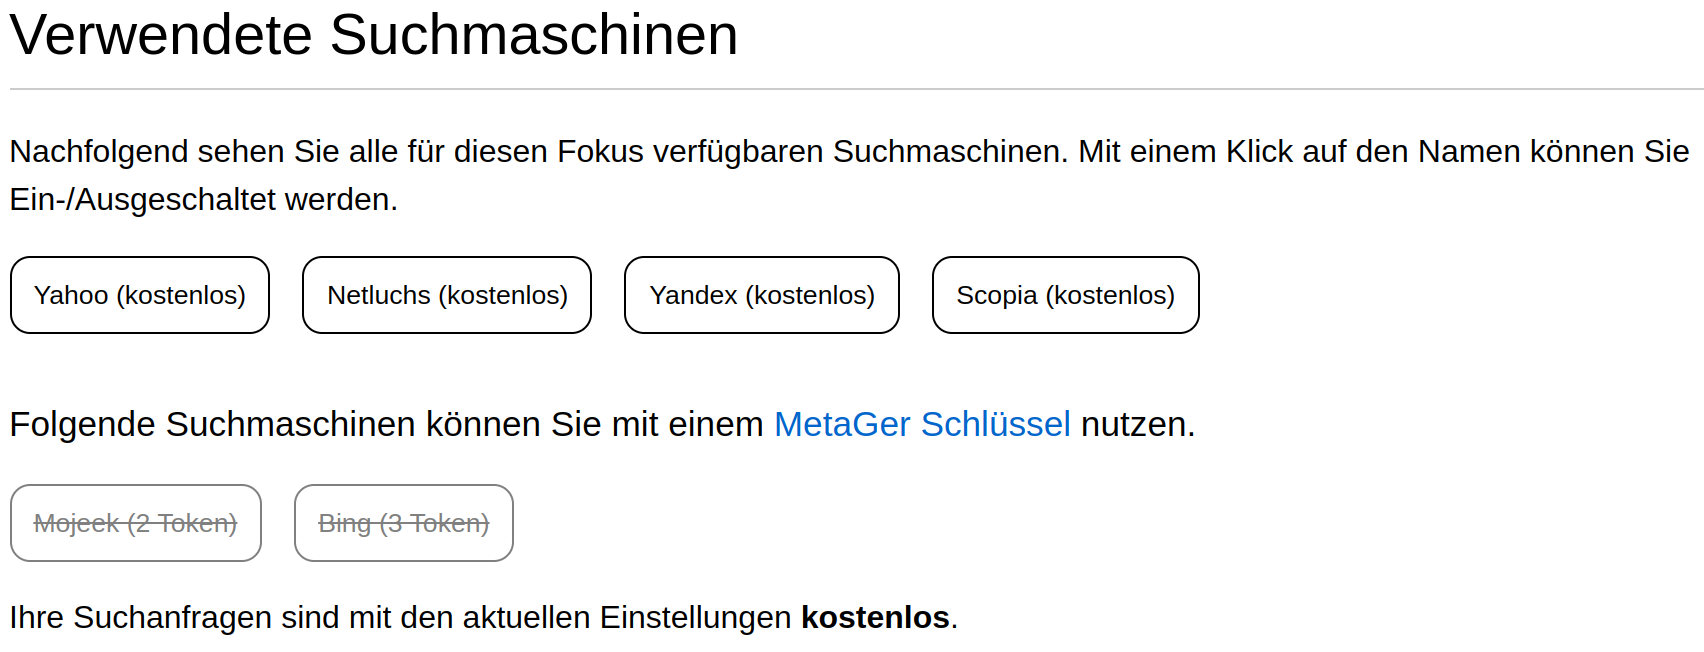
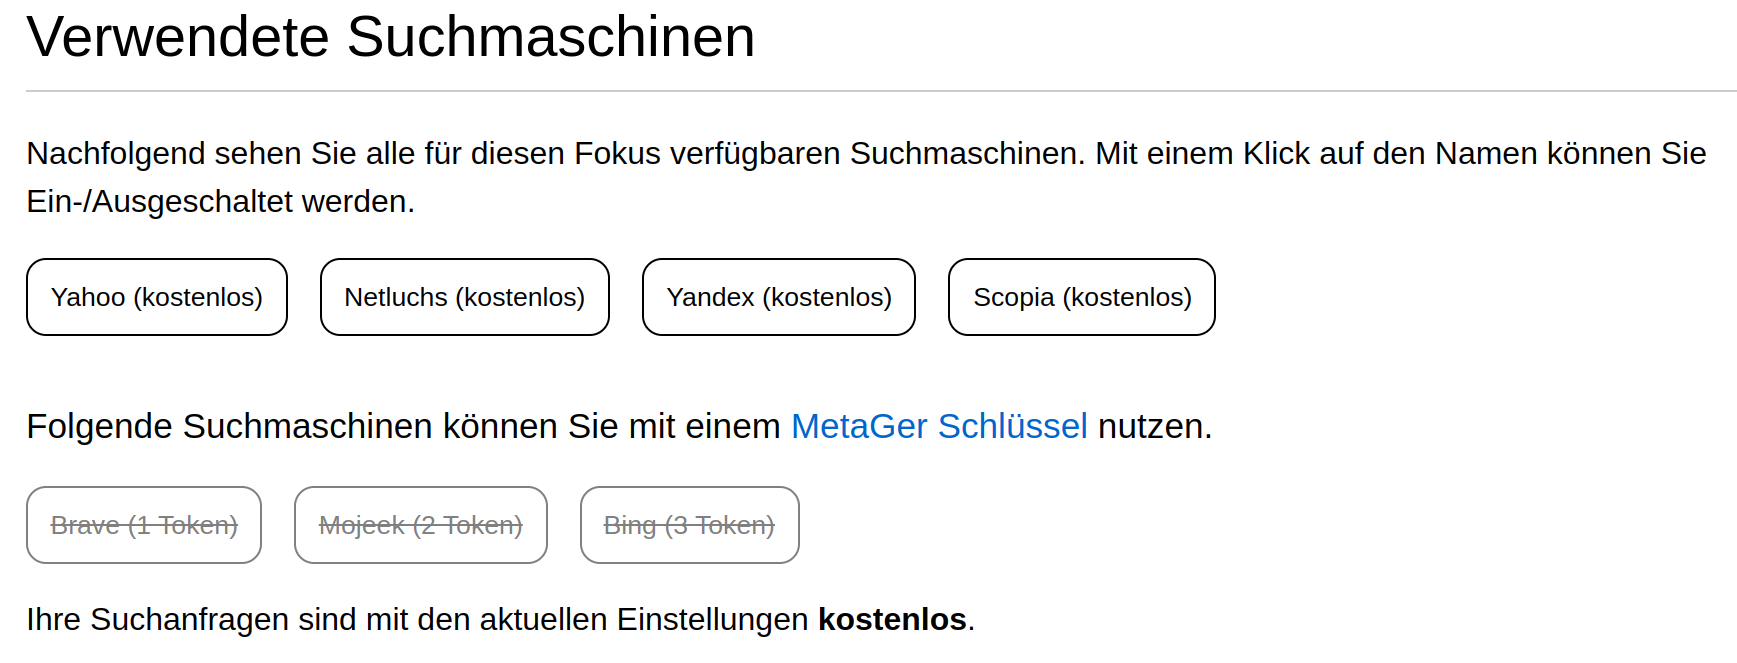
change text to  fit new setting page

diff --git a/metager/resources/views/help/easy-language/help-mainpages.blade.php b/metager/resources/views/help/easy-language/help-mainpages.blade.php
@@ -44,100 +44,103 @@
 			<p>{!! trans('help/easy-language/help-mainpages.searchfield.morefunctions') !!}</p>
 		</div>
         <h3 id="ergebnis">{!! trans('help/easy-language/help-mainpages.resultpage.title') !!}</h3>
-		    <div>
-				<p>{!! trans('help/easy-language/help-mainpages.resultpage.foci.1') !!}</p>
-				<img class="help-easy-language-mainpages-image lm-only" src="/img/help-search-focus-lm.png"/>
-				<img class="help-easy-language-mainpages-image dm-only" src="/img/help-search-focus-dm.png"/>
-				<p>{!! trans('help/easy-language/help-mainpages.resultpage.foci.2') !!}</p>
+		<div>
+			<p>{!! trans('help/easy-language/help-mainpages.resultpage.foci.1') !!}</p>
+			<img class="help-easy-language-mainpages-image lm-only" src="/img/help-search-focus-lm.png"/>
+			<img class="help-easy-language-mainpages-image dm-only" src="/img/help-search-focus-dm.png"/>
+			<p>{!! trans('help/easy-language/help-mainpages.resultpage.foci.2') !!}</p>
 
-				<p>{!! trans('help/easy-language/help-mainpages.resultpage.choice') !!}</p>
-				<img class="help-easy-language-mainpages-image lm-only" src="/img/help-settings-filter-lm.png"/>
-				<img class="help-easy-language-mainpages-image dm-only" src="/img/help-settings-filter-dm.png"/>
-				<h4>{!! trans('help/easy-language/help-mainpages.resultpage.filter.title') !!}</h4>
-				<p>{!! trans('help/easy-language/help-mainpages.resultpage.filter.1') !!}</p>
+			<p>{!! trans('help/easy-language/help-mainpages.resultpage.choice') !!}</p>
+			<img class="help-easy-language-mainpages-image lm-only" src="/img/help-settings-filter-lm.png"/>
+			<img class="help-easy-language-mainpages-image dm-only" src="/img/help-settings-filter-dm.png"/>
+			<h4>{!! trans('help/easy-language/help-mainpages.resultpage.filter.title') !!}</h4>
+			<p>{!! trans('help/easy-language/help-mainpages.resultpage.filter.1') !!}</p>
 
-				<h4>{!! trans('help/easy-language/help-mainpages.resultpage.settings.title') !!}</h4>
-				<p>{!! trans('help/easy-language/help-mainpages.resultpage.settings.1') !!}</p>
+			<h4>{!! trans('help/easy-language/help-mainpages.resultpage.settings.title') !!}</h4>
+			<p>{!! trans('help/easy-language/help-mainpages.resultpage.settings.1') !!}</p>
 
-            </div>
+		</div>
 		<h3>{!! trans('help/easy-language/help-mainpages.result.title') !!}</h3>
-			<div>
-				<p>{!! trans('help/easy-language/help-mainpages.result.info.1') !!}</p>
-				<div class="image-container">
-					<img class="lm-only" src="/img/help-php-resultpic-01.png" alt="Bildschirmfoto eines Suchergebnisses"/>
-					<img class="dm-only" src="/img/help-php-resultpic-01-dm.png" alt="Bildschirmfoto eines Suchergebnisses"/>
-				</div>
-				<h4>{!! trans('help/easy-language/help-mainpages.result.info.open.title') !!}</h4>
-				<p>{!! trans('help/easy-language/help-mainpages.result.info.open.0') !!}</p>
-				<ul>
-					<li>{!! trans('help/easy-language/help-mainpages.result.info.open.1') !!}</li>
-					<li>{!! trans('help/easy-language/help-mainpages.result.info.open.2') !!}</li>
-					<li>{!! trans('help/easy-language/help-mainpages.result.info.open.3') !!}</li>
-				</ul>				
-				<h4>{!! trans('help/easy-language/help-mainpages.result.info.newtab.title') !!}</h4>
-				<p>{!! trans('help/easy-language/help-mainpages.result.info.newtab.1') !!}</p>
-				<h4>{!! trans('help/easy-language/help-mainpages.result.info.anonym.title') !!}</h4>
-				<p>{!! trans('help/easy-language/help-mainpages.result.info.anonym.1') !!}</p>
-				<h4>{!! trans('help/easy-language/help-mainpages.result.info.more.title') !!}</h4>
-				<p>{!! trans('help/easy-language/help-mainpages.result.info.more.1') !!}</p>
-				<div class="image-container">
-					<img class="lm-only" src="/img/help-php-resultpic-02.png" alt="Bildschirmfoto eines Suchergebnisses"/>
-					<img class="dm-only" src="/img/help-php-resultpic-02-dm.png" alt="Bildschirmfoto eines Suchergebnisses"/>
-				</div>
-
-				<p>{!! trans('help/easy-language/help-mainpages.result.info.2') !!}</p>
-					<h4>{!! trans('help/easy-language/help-mainpages.result.info.domainnewsearch.title') !!}</h4>
-					<p>{!! trans('help/easy-language/help-mainpages.result.info.domainnewsearch.1') !!}</p>
-					<p>{!! trans('help/easy-language/help-mainpages.result.info.domainnewsearch.2') !!}</p>
-					<p>{!! trans('help/easy-language/help-mainpages.result.info.domainnewsearch.3') !!}</p>
-
-					<h4>{!! trans('help/easy-language/help-mainpages.result.info.hideresult.title') !!}</h4>
-					<p>{!! trans('help/easy-language/help-mainpages.result.info.hideresult.1') !!}</p>
-
+		<div>
+			<p>{!! trans('help/easy-language/help-mainpages.result.info.1') !!}</p>
+			<div class="image-container">
+				<img class="lm-only" src="/img/help-php-resultpic-01.png" alt="Bildschirmfoto eines Suchergebnisses"/>
+				<img class="dm-only" src="/img/help-php-resultpic-01-dm.png" alt="Bildschirmfoto eines Suchergebnisses"/>
 			</div>
+			<h4>{!! trans('help/easy-language/help-mainpages.result.info.open.title') !!}</h4>
+			<p>{!! trans('help/easy-language/help-mainpages.result.info.open.0') !!}</p>
+			<ul>
+				<li>{!! trans('help/easy-language/help-mainpages.result.info.open.1') !!}</li>
+				<li>{!! trans('help/easy-language/help-mainpages.result.info.open.2') !!}</li>
+				<li>{!! trans('help/easy-language/help-mainpages.result.info.open.3') !!}</li>
+			</ul>				
+			<h4>{!! trans('help/easy-language/help-mainpages.result.info.newtab.title') !!}</h4>
+			<p>{!! trans('help/easy-language/help-mainpages.result.info.newtab.1') !!}</p>
+			<h4>{!! trans('help/easy-language/help-mainpages.result.info.anonym.title') !!}</h4>
+			<p>{!! trans('help/easy-language/help-mainpages.result.info.anonym.1') !!}</p>
+			<h4>{!! trans('help/easy-language/help-mainpages.result.info.more.title') !!}</h4>
+			<p>{!! trans('help/easy-language/help-mainpages.result.info.more.1') !!}</p>
+			<div class="image-container">
+				<img class="lm-only" src="/img/help-php-resultpic-02.png" alt="Bildschirmfoto eines Suchergebnisses"/>
+				<img class="dm-only" src="/img/help-php-resultpic-02-dm.png" alt="Bildschirmfoto eines Suchergebnisses"/>
+			</div>
+			<p>{!! trans('help/easy-language/help-mainpages.result.info.2') !!}</p>
+				<h4>{!! trans('help/easy-language/help-mainpages.result.info.domainnewsearch.title') !!}</h4>
+				<p>{!! trans('help/easy-language/help-mainpages.result.info.domainnewsearch.1') !!}</p>
+				<p>{!! trans('help/easy-language/help-mainpages.result.info.domainnewsearch.2') !!}</p>
+				<p>{!! trans('help/easy-language/help-mainpages.result.info.domainnewsearch.3') !!}</p>
+				<h4>{!! trans('help/easy-language/help-mainpages.result.info.hideresult.title') !!}</h4>
+				<p>{!! trans('help/easy-language/help-mainpages.result.info.hideresult.1') !!}</p>
+		</div>
         <h3 id="einstellungen">{!! trans('help/easy-language/help-mainpages.settings.title') !!}</h3>
-				<h4>{!! trans('help/easy-language/help-mainpages.settings.cookies.title') !!}</h4>
-				<img class="help-easy-language-mainpages-image lm-only" src="/img/help-settings-key-lm.png"/>
-				<img class="help-easy-language-mainpages-image dm-only" src="/img/help-settings-key-dm.png"/>
-                <p>@lang('help/easy-language/help-mainpages.settings.cookies.1', ["link" => LaravelLocalization::getLocalizedURL(LaravelLocalization::getCurrentLocale(), route('showAllSettings', ['url' => url()->full()])) ])</li>
-                <h4>{!! trans('help/easy-language/help-mainpages.settings.searchengine.title') !!}</h4>
-				<p>{!! trans('help/easy-language/help-mainpages.settings.searchengine.1') !!}</p>
-				<img class="help-easy-language-mainpages-image lm-only" src="/img/help-settings-search-engines-lm.png"/>
-				<img class="help-easy-language-mainpages-image dm-only" src="/img/help-settings-search-engines-dm.png"/>
-				<p>{!! trans('help/easy-language/help-mainpages.settings.searchengine.2') !!}</p>
+			<h4>{!! trans('help/easy-language/help-mainpages.settings.metagerkey.title') !!}</h4>
+			<img class="help-easy-language-mainpages-image lm-only" src="/img/help-settings-key-lm-01.png"/>
+			<img class="help-easy-language-mainpages-image dm-only" src="/img/help-settings-key-dm-01.png"/>
+			<p>{!! trans('help/easy-language/help-mainpages.settings.metagerkey.1') !!}</p>
+			<img class="help-easy-language-mainpages-image lm-only" src="/img/help-settings-key-lm.png"/>
+			<img class="help-easy-language-mainpages-image dm-only" src="/img/help-settings-key-dm.png"/>
+			<p>{!! trans('help/easy-language/help-mainpages.settings.metagerkey.2') !!}</p>
 
-                <h4>{!! trans('help/easy-language/help-mainpages.settings.filter.title') !!}</h4>
-				<p>{!! trans('help/easy-language/help-mainpages.settings.filter.1.0') !!}</p>
-				<img class="help-easy-language-mainpages-image lm-only help-easy-language-searchfilter-and-blacklist" src="/img/help-settings-search-filter-lm.png"/>
-				<img class="help-easy-language-mainpages-image dm-only help-easy-language-searchfilter-and-blacklist" src="/img/help-settings-search-filter-dm.png"/>
-				<p>{!! trans('help/easy-language/help-mainpages.settings.filter.1.1') !!}</p>
-				<p>{!! trans('help/easy-language/help-mainpages.settings.filter.1.2') !!}</p>
-				<p>{!! trans('help/easy-language/help-mainpages.settings.filter.1.3') !!}</p>
-				<p>{!! trans('help/easy-language/help-mainpages.settings.filter.1.4') !!}</p>
-				<p>{!! trans('help/easy-language/help-mainpages.settings.filter.2') !!}</p>
-				<img class="help-easy-language-mainpages-image lm-only" src="/img/help-settings-safesearch-lm.png"/>
-				<img class="help-easy-language-mainpages-image dm-only" src="/img/help-settings-safesearch-dm.png"/>
-				<p>{!! trans('help/easy-language/help-mainpages.settings.filter.3') !!}</p>
+			<h4>{!! trans('help/easy-language/help-mainpages.settings.searchengine.title') !!}</h4>
+			<p>{!! trans('help/easy-language/help-mainpages.settings.searchengine.1') !!}</p>
+			<img class="help-easy-language-mainpages-image lm-only" src="/img/help-settings-search-engines-lm.png"/>
+			<img class="help-easy-language-mainpages-image dm-only" src="/img/help-settings-search-engines-dm.png"/>
+			<p>{!! trans('help/easy-language/help-mainpages.settings.searchengine.2') !!}</p>
 
-                <h4>{!! trans('help/easy-language/help-mainpages.settings.blacklist.title') !!}</h4>
-				<img class="help-easy-language-mainpages-image lm-only help-easy-language-searchfilter-and-blacklist" src="/img/help-settings-blacklist-lm.png"/>
-				<img class="help-easy-language-mainpages-image dm-only help-easy-language-searchfilter-and-blacklist" src="/img/help-settings-blacklist-dm.png"/>
-				<p>{!! trans('help/easy-language/help-mainpages.settings.blacklist.1') !!}</p>
-				<p>{!! trans('help/easy-language/help-mainpages.settings.blacklist.2') !!}</p>
-				<h4>{!! trans('help/easy-language/help-mainpages.settings.moresettings') !!}</h4>
-				<img class="help-easy-language-mainpages-image lm-only" src="/img/help-more-settings-lm.png"/>
-				<img class="help-easy-language-mainpages-image dm-only" src="/img/help-more-settings-dm.png"/>
-                <h4>{!! trans('help/easy-language/help-mainpages.settings.darkmode.title') !!}</h4>
-                <p>{!! trans('help/easy-language/help-mainpages.settings.darkmode.1') !!}</p>
-                <h4>{!! trans('help/easy-language/help-mainpages.settings.newtab.title') !!}</h4>
-				<p>{!! trans('help/easy-language/help-mainpages.settings.newtab.1') !!}</p>
-                <h4>{!! trans('help/easy-language/help-mainpages.settings.cite.title') !!}</h4>
-				<p>{!! trans('help/easy-language/help-mainpages.settings.cite.1') !!}</p>
-				<img id="easy-help-mainpages-settings-cite" class="help-easy-language-mainpages-image lm-only" src="/img/help-settings-cite-lm.png"/>
-				<img id="easy-help-mainpages-settings-cite" class="help-easy-language-mainpages-image dm-only" src="/img/help-settings-cite-dm.png"/>
-				<p>Placeholder for recovering settings</p>
-				<img class="help-easy-language-mainpages-image lm-only" src="/img/help-settings-recover-lm.png"/>
-				<img class="help-easy-language-mainpages-image dm-only" src="/img/help-settings-recover-dm.png"/>
+			<h4>{!! trans('help/easy-language/help-mainpages.settings.filter.title') !!}</h4>
+			<p>{!! trans('help/easy-language/help-mainpages.settings.filter.1.0') !!}</p>
+			<img class="help-easy-language-mainpages-image lm-only help-easy-language-searchfilter-and-blacklist" src="/img/help-settings-search-filter-lm.png"/>
+			<img class="help-easy-language-mainpages-image dm-only help-easy-language-searchfilter-and-blacklist" src="/img/help-settings-search-filter-dm.png"/>
+			<p>{!! trans('help/easy-language/help-mainpages.settings.filter.1.1') !!}</p>
+			<p>{!! trans('help/easy-language/help-mainpages.settings.filter.1.2') !!}</p>
+			<p>{!! trans('help/easy-language/help-mainpages.settings.filter.1.3') !!}</p>
+			<p>{!! trans('help/easy-language/help-mainpages.settings.filter.1.4') !!}</p>
+			<p>{!! trans('help/easy-language/help-mainpages.settings.filter.2') !!}</p>
+			<img class="help-easy-language-mainpages-image lm-only" src="/img/help-settings-safesearch-lm.png"/>
+			<img class="help-easy-language-mainpages-image dm-only" src="/img/help-settings-safesearch-dm.png"/>
+			<p>{!! trans('help/easy-language/help-mainpages.settings.filter.3') !!}</p>
+
+			<h4>{!! trans('help/easy-language/help-mainpages.settings.blacklist.title') !!}</h4>
+			<img class="help-easy-language-mainpages-image lm-only help-easy-language-searchfilter-and-blacklist" src="/img/help-settings-blacklist-lm.png"/>
+			<img class="help-easy-language-mainpages-image dm-only help-easy-language-searchfilter-and-blacklist" src="/img/help-settings-blacklist-dm.png"/>
+			<p>{!! trans('help/easy-language/help-mainpages.settings.blacklist.1') !!}</p>
+			<p>{!! trans('help/easy-language/help-mainpages.settings.blacklist.2') !!}</p>
+			<h4>{!! trans('help/easy-language/help-mainpages.settings.moresettings') !!}</h4>
+			<img class="help-easy-language-mainpages-image lm-only" src="/img/help-more-settings-lm.png"/>
+			<img class="help-easy-language-mainpages-image dm-only" src="/img/help-more-settings-dm.png"/>
+			<h4>{!! trans('help/easy-language/help-mainpages.settings.darkmode.title') !!}</h4>
+			<p>{!! trans('help/easy-language/help-mainpages.settings.darkmode.1') !!}</p>
+			<h4>{!! trans('help/easy-language/help-mainpages.settings.newtab.title') !!}</h4>
+			<p>{!! trans('help/easy-language/help-mainpages.settings.newtab.1') !!}</p>
+			<h4>{!! trans('help/easy-language/help-mainpages.settings.cite.title') !!}</h4>
+			<p>{!! trans('help/easy-language/help-mainpages.settings.cite.1') !!}</p>
+			<img id="easy-help-mainpages-settings-cite" class="help-easy-language-mainpages-image lm-only" src="/img/help-settings-cite-lm.png"/>
+			<img id="easy-help-mainpages-settings-cite" class="help-easy-language-mainpages-image dm-only" src="/img/help-settings-cite-dm.png"/>
+			<h4>{!! trans('help/easy-language/help-mainpages.settings.cookies.title') !!}</h4>
+			
+			<img class="help-easy-language-mainpages-image lm-only" src="/img/help-settings-recover-lm.png"/>
+			<img class="help-easy-language-mainpages-image dm-only" src="/img/help-settings-recover-dm.png"/>
+			<p>{!! trans('help/easy-language/help-mainpages.settings.cookies.1') !!}</p>	
     </section>
 </section>
 

diff --git a/metager/lang/de/help/easy-language/help-mainpages.php b/metager/lang/de/help/easy-language/help-mainpages.php
@@ -88,31 +88,36 @@ return [
     
     "settings"  => [
         "title" => 'Einstellungen',
+        "metagerkey" => [
+            "title" => "Werbefreie Suche",
+            "1"=> 'Hier kann man das Guthaben für die werbe-freie Suche sehen. <br> Die Werbe-freie Suche kann man mit einem MetaGer Schlüssel nutzen. <br>Unter dem Guthaben kann man den MetaGer Schlüssel sehen. <br> Darunter findet man zwei Knöpfe. <br> Man kann auf den linken Knopf <strong>Schlüssel aufladen</strong> drücken. <br> Dann kann man den Schlüssel aufladen. <br> Man auf den rechten Knopf <strong>Schlüssel entfernen</strong> drücken. <br> Dann wird der Schlüssel aus dem Browser <a title="Wort erklärung" href="/hilfe/easy-language/glossary#browser" ><img class="glossary-icon" src="/img/glossary-icon.svg"/></a> gelöscht. <br> Mehr Informationen über den MetaGer Schlüssel findet man hier:  <a href = "/hilfe/easy-language/funktionen#keyexplain/">MetaGer Schlüssel</a> <br> Wenn man keinen Schlüssel hat, sieht das so aus:',
+            "2"=> "Es werden 3 Knöpfe angezeigt. <br> Man kann auf den linken Knopf mit dem Text <strong>Was ist das?</strong> drücken. <br> Dann kommt man auf die Informations-seite vom MetaGer Schlüssel. <br> Man kann auf den mittleren Knopf mit dem Text <strong>Vorhandenen Schlüssel einrichten</strong> drücken. <br> Wenn man schon einen MetaGer Schlüssel hat, kann man den da eingeben. <br> Wenn man keinen Schlüssel hat, kann man auf den rechten Knopf <strong>Neuen Schlüssel einrichten</strong> drücken um einen neuen Schlüssel zu kaufen.",
+        ],
         "cookies"  => [
-            "title" => 'Setzen von Cookies<a title="Wort erklärung" href="/hilfe/easy-language/glossary#cookies" ><img class="glossary-icon" src="/img/glossary-icon.svg"/></a>',
-            "1" => 'Manche Browser<a title="Wort erklärung" href="/hilfe/easy-language/glossary#browser" ><img class="glossary-icon" src="/img/glossary-icon.svg"/></a> löschen Ihre Cookies<a title="Wort erklärung" href="/hilfe/easy-language/glossary#cookies" ><img class="glossary-icon" src="/img/glossary-icon.svg"/></a> nach einer Sitzung. <br> Dann werden auch die Einstellungen von MetaGer gelöscht. <br> Mit dem Link können Sie die Einstellungen wieder her-stellen. <br> Sie können sich den Link auch anzeigen lassen: <br> <a href=:link>Cookie-Link</a> <br> Sie können diesen Link als Start-Seite speichern. <br> Dann sind beim Öffnen des Browsers<a title="Wort erklärung" href="/hilfe/easy-language/glossary#browser" ><img class="glossary-icon" src="/img/glossary-icon.svg"/></a> die Einstellungen wieder da. ',
+            "title" => 'Wiederherstellen aller aktuellen Einstellungen',
+            "1" => 'Manche Browser<a title="Wort erklärung" href="/hilfe/easy-language/glossary#browser" ><img class="glossary-icon" src="/img/glossary-icon.svg"/></a> löschen Ihre Cookies<a title="Wort erklärung" href="/hilfe/easy-language/glossary#cookies" ><img class="glossary-icon" src="/img/glossary-icon.svg"/></a> nach einer Sitzung. <br> Dann werden auch die Einstellungen von MetaGer gelöscht. <br> Mit dem Link können Sie die Einstellungen wieder her-stellen. <br> Sie können diesen Link als Start-Seite speichern. <br> Dann sind beim Öffnen des Browsers<a title="Wort erklärung" href="/hilfe/easy-language/glossary#browser" ><img class="glossary-icon" src="/img/glossary-icon.svg"/></a> die Einstellungen wieder da. ',
         ],
         "searchengine"  => [
             "title" => 'Verwendete Such-Maschinen:',
-            "1" => 'Hier sehen Sie alle Such-Maschinen<a title="Wort erklärung" href="/hilfe/easy-language/glossary#suchmaschine" ><img class="glossary-icon" src="/img/glossary-icon.svg"/></a> die MetaGer nutzt. <br> Sie können auswählen welche Such-Maschinen<a title="Wort erklärung" href="/hilfe/easy-language/glossary#suchmaschine" ><img class="glossary-icon" src="/img/glossary-icon.svg"/></a> Sie nutzen wollen. <br> Sie können auf die einzelnen Knöpfe klicken. <br> Wenn die Knöpfe grün sind, dann nutzen Sie die Such-Maschinen<a title="Wort erklärung" href="/hilfe/easy-language/glossary#suchmaschine" ><img class="glossary-icon" src="/img/glossary-icon.svg"/></a>.',
-            "2" => 'Wenn ein Knopf rot ist nutzen Sie diese Such-Maschine nicht.',
+            "1" => 'Hier sehen Sie alle Such-Maschinen<a title="Wort erklärung" href="/hilfe/easy-language/glossary#suchmaschine" ><img class="glossary-icon" src="/img/glossary-icon.svg"/></a> die MetaGer nutzt. <br> Sie können auswählen welche Such-Maschinen<a title="Wort erklärung" href="/hilfe/easy-language/glossary#suchmaschine" ><img class="glossary-icon" src="/img/glossary-icon.svg"/></a> Sie nutzen wollen. <br> Sie können auf die einzelnen Knöpfe klicken. <br> Wenn die Knöpfe durchgestrichen sind, dann nutzen Sie die Such-Maschinen<a title="Wort erklärung" href="/hilfe/easy-language/glossary#suchmaschine" ><img class="glossary-icon" src="/img/glossary-icon.svg"/></a> nicht. <br> Einige Such-Maschinen sind nur mit einem <a href = "/hilfe/easy-language/funktionen#keyexplain/">MetaGer-Schlüssel</a> nutzbar.',
+            "2" => 'Such-Maschinen die man nur mit MetaGer Schlüssel verwenden kann, sind ausgegraut.',
         ],
         "filter"  => [
             "title" => 'Such-Filter<a title="Wort erklärung" href="/hilfe/easy-language/glossary#filter" ><img class="glossary-icon" src="/img/glossary-icon.svg"/></a>:', 
             "1"  => [   
                 "0" => 'Mit dem Such-Filter<a title="Wort erklärung" href="/hilfe/easy-language/glossary#filter" ><img class="glossary-icon" src="/img/glossary-icon.svg"/></a> können Sie Ihre Suche filtern. <br> Sie können also auswählen was Sie sehen wollen.',
                 "1" => 'Datum:',
-                "2" => 'Hier können Sie das Datum vom Such-Ergebnis aussuchen.<br> Man zeigt dann nur Ergebnisse mit dem ausgewählten Datum an.',
+                "2" => 'Hier können Sie das Datum vom Such-Ergebnis aussuchen.<br> Man zeigt dann nur Ergebnisse mit dem ausgewählten Datum an. <br> Diese Funktion ist nur mit einem MetaGer Schlüssel möglich.',
                 "3" => 'Sprache:',
-                "4" => 'Hier können Sie die Sprache vom Such-Ergebnis aussuchen. <br> Man zeigt dann nur Ergebnisse mit der ausgewählten Sprache an.',
+                "4" => 'Hier können Sie die Sprache vom Such-Ergebnis aussuchen. <br> Man zeigt dann nur Ergebnisse mit der ausgewählten Sprache an. <br> Für einige Sprachen braucht man einen MetaGer Schlüssel.',
             ],
             "2" => 'Safesearch<a title="Wort erklärung" href="/hilfe/easy-language/glossary#safesearch" ><img class="glossary-icon" src="/img/glossary-icon.svg"/></a>:', 
-            "3" => 'Mit dem Safesearch<a title="Wort erklärung" href="/hilfe/easy-language/glossary#safesearch" ><img class="glossary-icon" src="/img/glossary-icon.svg"/></a> Filter (Jugendschutz-Filter) verstecken Sie unangenehme Ergebnisse. <br> <strong>Strikt</strong> findet fast keine unangenehmen Ergebnisse. <br> <strong>Aus</strong> findet alle Ergebnisse, also auch unangenehme Ergebnisse. <br> <strong>Moderat</strong> findet ein paar unangenehme Ergebnisse. <br> Bei <strong>Beliebig</strong> entscheiden die einzelnen Such-Maschinen selber.', 
+            "3" => 'Mit dem Safesearch<a title="Wort erklärung" href="/hilfe/easy-language/glossary#safesearch" ><img class="glossary-icon" src="/img/glossary-icon.svg"/></a> Filter (Jugendschutz-Filter) verstecken Sie unangenehme Ergebnisse. <br> <strong>Strikt</strong> findet fast keine unangenehmen Ergebnisse. <br> <strong>Aus</strong> findet alle Ergebnisse, also auch unangenehme Ergebnisse. <br> <strong>Moderat</strong> findet ein paar unangenehme Ergebnisse. <br> Bei <strong>Beliebig</strong> entscheiden die einzelnen Such-Maschinen selber. <br> Für den moderaten Modus braucht man einen MetaGer Schlüssel.', 
         ],
         "blacklist"  => [
             "title" => 'Blacklist / Schwarze Liste:',
-            "1" => 'Hier können Sie Web-Seiten angeben, die Sie nicht in den Ergebnissen sehen wollen. <br> In das Feld geben Sie die Seite ein. <br> Dann drücken Sie auf den Knopf <Strong>Hinzufügen</strong>. <br> Hier können Sie mehrere Ergebnisse hinzufügen.<br> Dann verstecken Sie die Seite in den Ergebnissen. ',
-            "2" => 'Wenn Sie eine Seite doch wieder sehen wollen, können Sie auf die Müll-Tonne drücken. <br> Oder Sie drücken auf den Knopf <strong>Blacklist leeren</strong> um alle Seiten wieder zu zeigen.',
+            "1" => 'Hier können Sie Web-Seiten angeben, die Sie nicht in den Ergebnissen sehen wollen. <br> In das Feld geben Sie die Seite ein. <br> Dann drücken Sie auf den Knopf <Strong>Speichern</strong>. <br> Hier können Sie mehrere Ergebnisse eintragen.<br> Dann verstecken Sie die Seite in den Ergebnissen. ',
+            "2" => 'Wenn Sie eine Seite doch wieder sehen wollen, können Sie die Web-Seite aus dem Feld löschen.',
         ],
         "moresettings" => 'Weitere Einstellungen:',
         "darkmode"  => [
